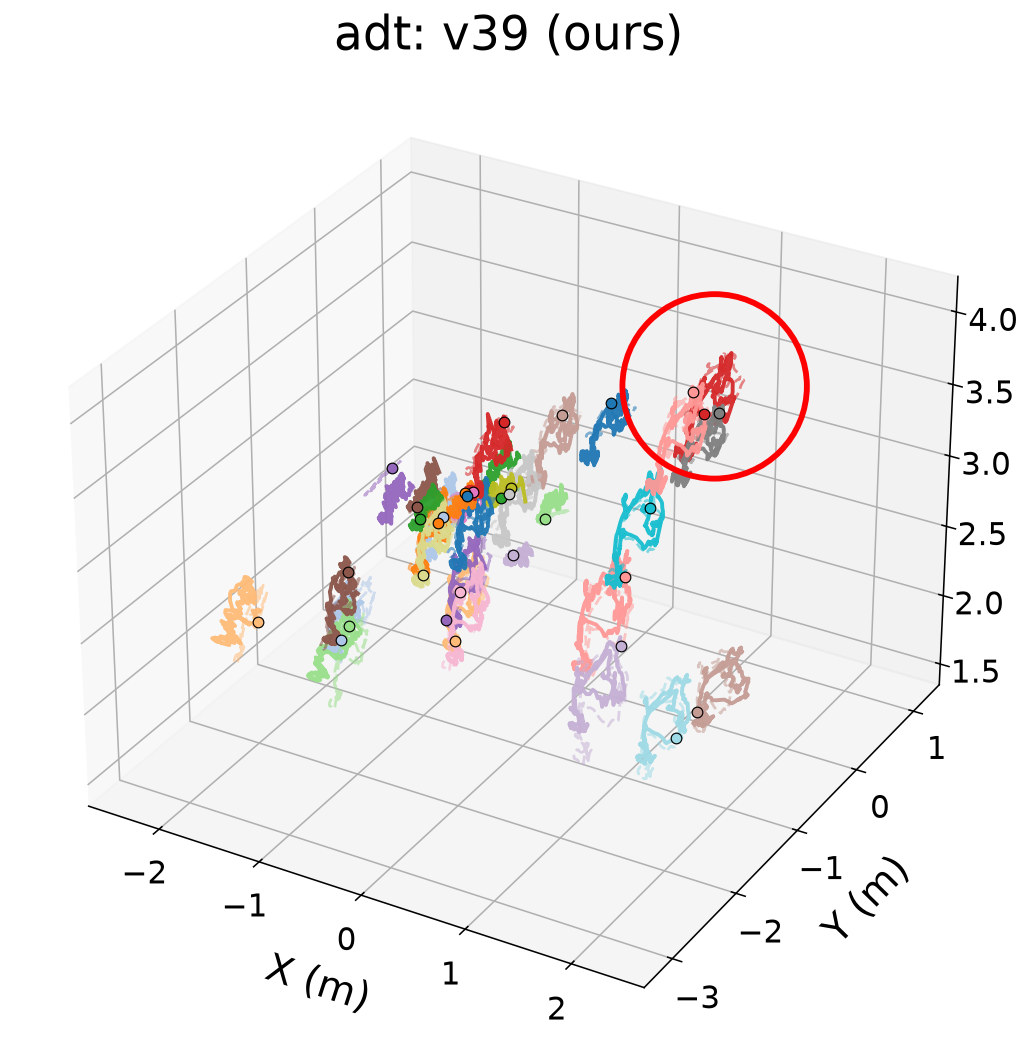
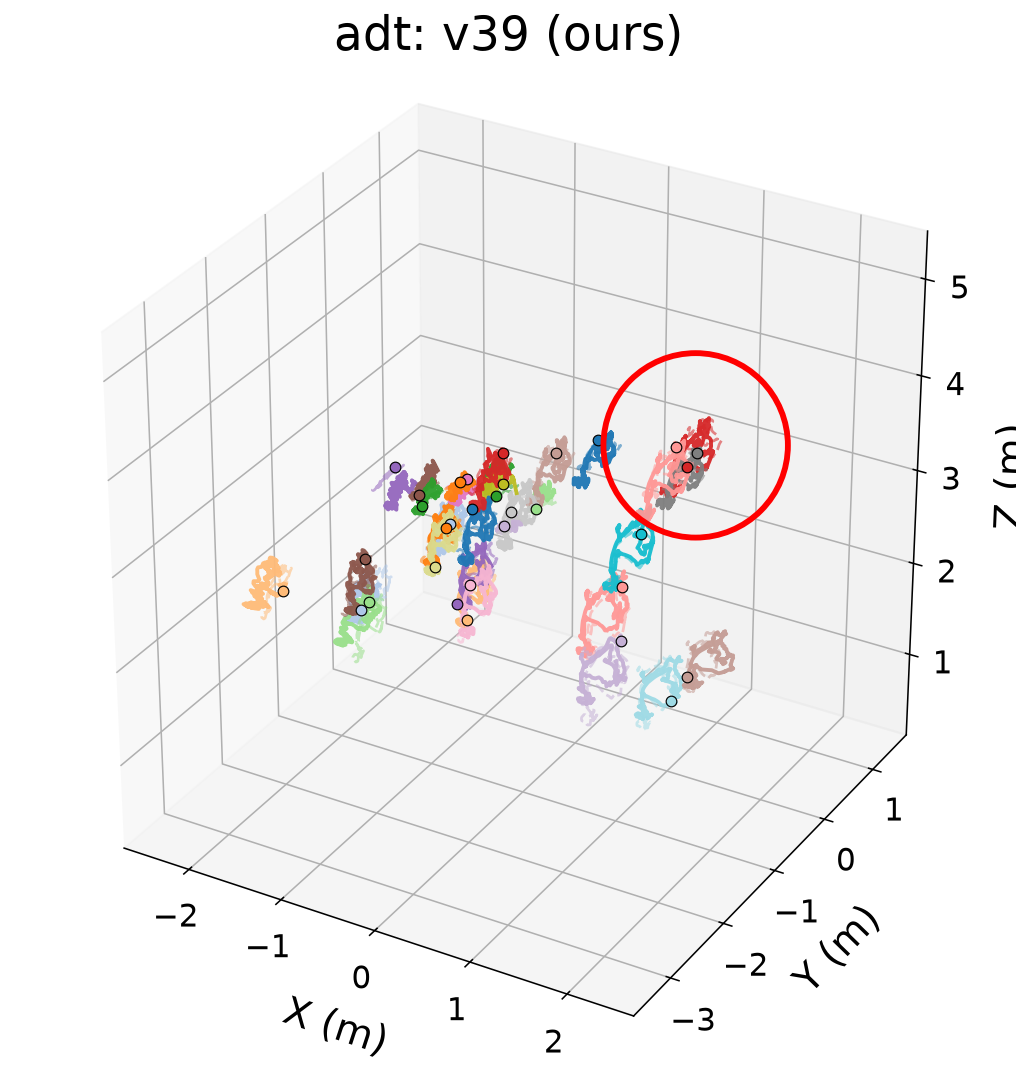
doc: qual figs 14-16 — equal axis scale (x=y=z) in the 3D plots
render_qual_3d.py: give the 3D panels a common span on x, y, z (the largest GT
extent, each axis centred on its own midpoint) plus set_box_aspect((1,1,1)), so
one metre is the same length on every axis and the red circle is a true circle.
Point-clipping still uses the tighter GT box, so the "DELTA collapses out of the
true volume" view is unchanged. Regenerated the six pstudio/drivetrack/adt
DELTA-vs-v39 PNGs (drivetrack now correctly tall-and-thin: ~5 m depth vs ~1.2 m
width/height). Space-time Fig 17 is 2D and untouched.

diff --git a/scripts/render_qual_3d.py b/scripts/render_qual_3d.py
@@ -159,9 +159,16 @@ def _render_3d(
             zorder=20,
         )
     if lims is not None:
-        ax.set_xlim(lims[0])
-        ax.set_ylim(lims[1])
-        ax.set_zlim(lims[2])
+        # Equal axis scale: give x, y, z a common span (the largest GT extent),
+        # each centred on its own midpoint, and force a cubic box so one metre is
+        # the same length on every axis. (Point-clipping above still uses the
+        # tighter GT box `lims`, so the "DELTA leaves the true volume" view holds.)
+        mids = [0.5 * (lo + hi) for (lo, hi) in lims]
+        half = max(hi - lo for (lo, hi) in lims) / 2.0
+        ax.set_xlim(mids[0] - half, mids[0] + half)
+        ax.set_ylim(mids[1] - half, mids[1] + half)
+        ax.set_zlim(mids[2] - half, mids[2] + half)
+        ax.set_box_aspect((1, 1, 1))
     ax.set_xlabel("X (m)", labelpad=12)
     ax.set_ylabel("Y (m)", labelpad=12)
     ax.set_zlabel("Z (m)", labelpad=12)
